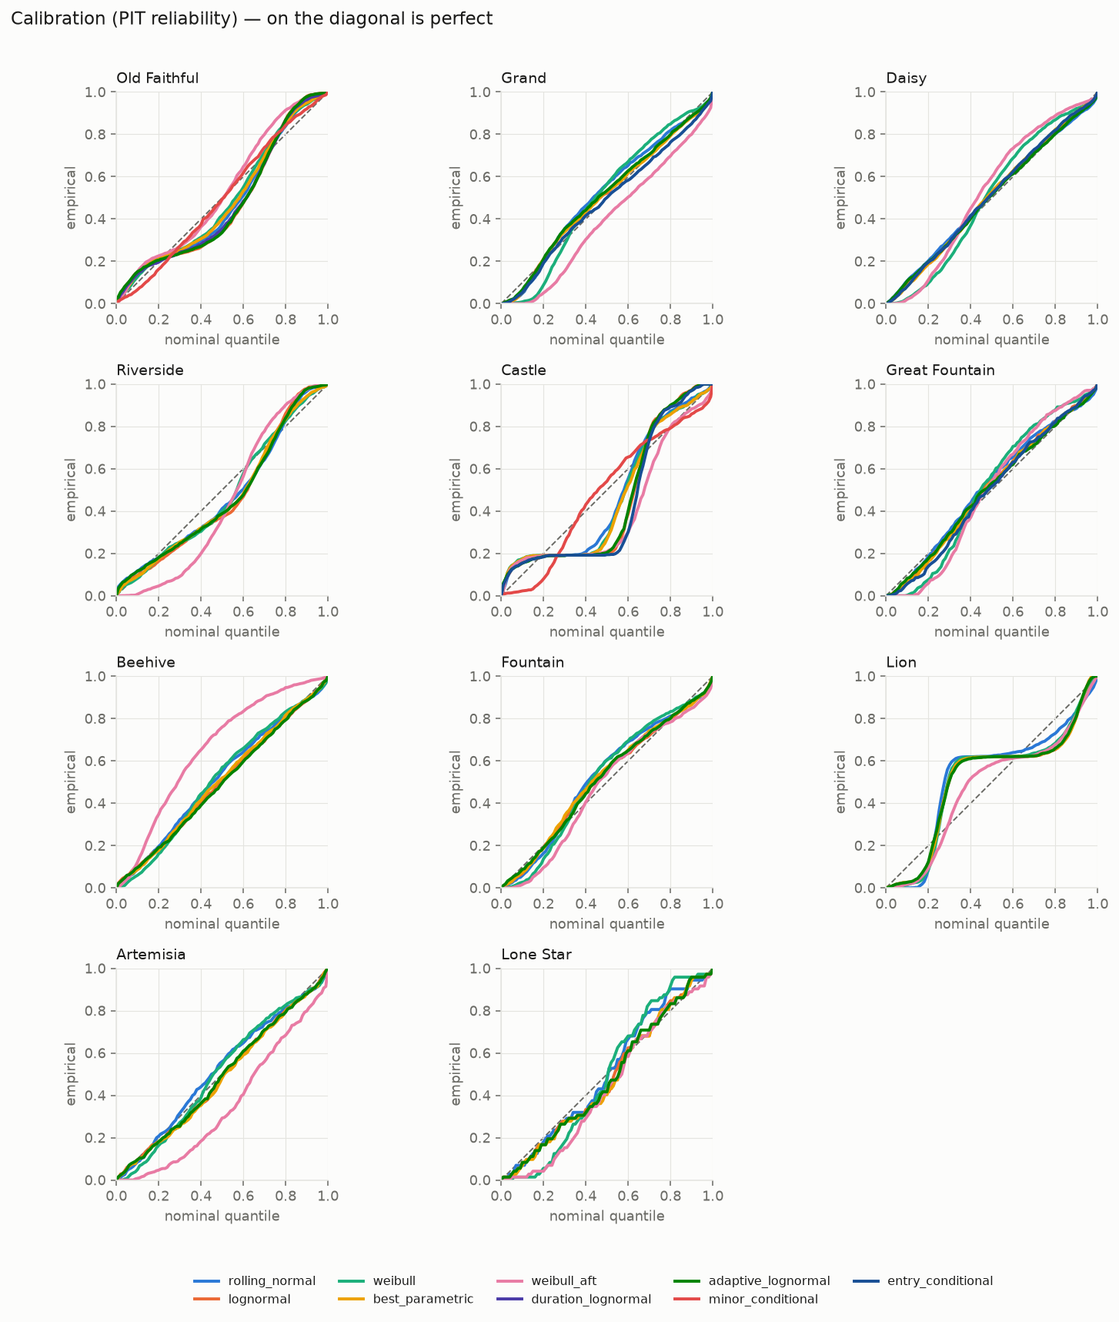
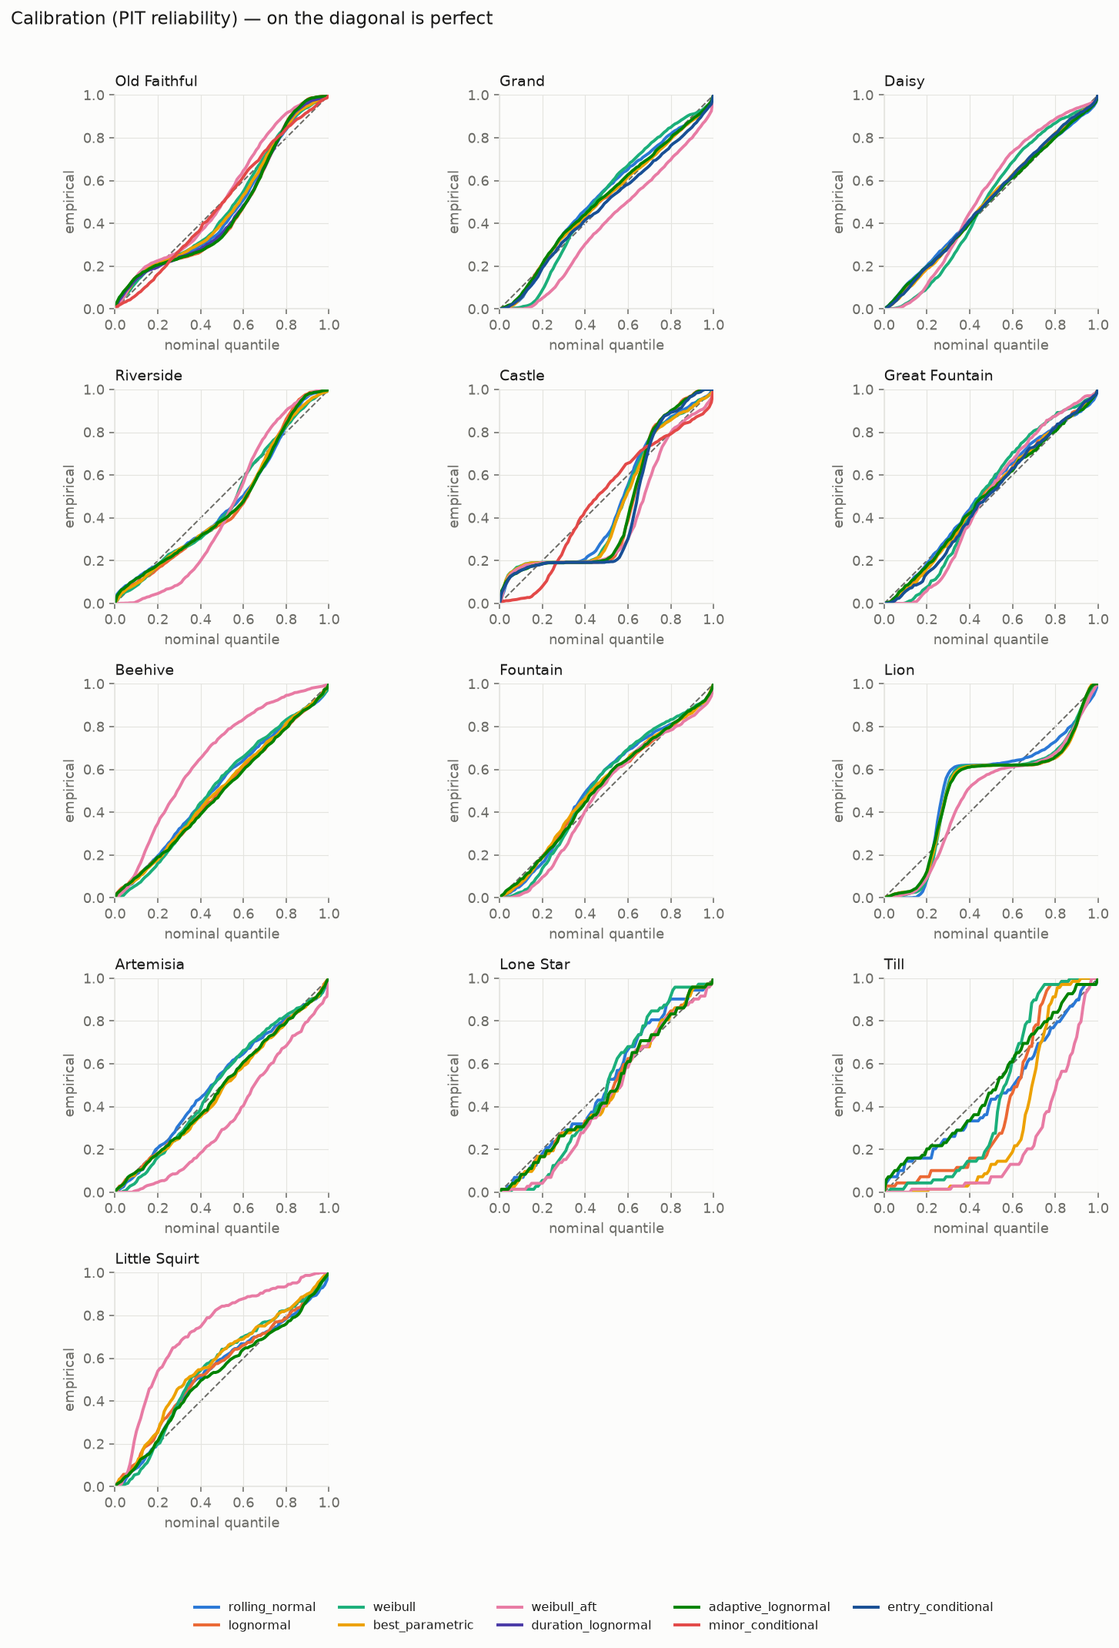
Till and Little Squirt: twelve and thirteen, one hidden, one overlooked
Till was the sweep's cautionary tale -- dismissed at "log-sd 2.16 on a
12-minute median" -- and re-running the sweep with the Lone Star lessons
applied dissolved that number entirely: 297 of its 477 recent entries are
afterplay minors in the first ~10% of the cycle, and the majors-only chain
under the p10 anchor is a 12-hour cycle at log-sd 0.072, the tightest
long-interval geyser in the project. Its reports arrive in real time
(median latency ~1 minute), and its measured phase decoherence -- +/-78
min at one cycle, +/-183 at eight, ceiling near sixteen -- gives it an
8-cycle phase window: the card is live whenever anyone has visited within
~4 days. PHASE_WINDOW_CYCLES is per-geyser now, and empirical. Till also
pins adaptive_lognormal: its cycle has drifted across the record and the
long-window parametric fits train on the old regime (best_parametric 63.5
CRPS vs 27.1, -57%).

Little Squirt needed nothing special -- everyone had simply overlooked a
~58-hour cycle at log-sd 0.237 with the cleanest observation record in
the set (13.8% of raw gaps rejected; 61% of entries from the Old Faithful
webcam; anchor inside its window 94% of the time). Standard pipeline,
default model, honest 90% coverage 76%.

Verified live: Till serving a phase-extrapolated prediction off a
26.6-hour anchor; Lone Star beside it in planning mode; thirteen cards.

diff --git a/src/geyser_ai/static/index.html b/src/geyser_ai/static/index.html
@@ -471,7 +471,7 @@ const HOURS = 12;            // future span of the shared axis
 const PAST_H = 1;            // shown before "now", so the marker sits inside
 const SPAN = PAST_H + HOURS; // total hours across the ribbon
 const REFRESH_MS = 5 * 60 * 1000;
-const TARGETS = new Set(["Old Faithful","Grand","Daisy","Riverside","Castle","Great Fountain","Beehive","Fountain","Lion","Artemisia","Lone Star"]);
+const TARGETS = new Set(["Old Faithful","Grand","Daisy","Riverside","Castle","Great Fountain","Beehive","Fountain","Lion","Artemisia","Lone Star","Till","Little Squirt"]);
 
 let lastData = null;
 

diff --git a/src/geyser_ai/ingest.py b/src/geyser_ai/ingest.py
@@ -60,7 +60,14 @@ SECOND_MODE_RATIO = 3.5
 # out 1270 min against a true 186-minute cycle). For these geysers the anchor
 # drops to the 10th percentile -- still safely above duplicate-entry noise,
 # which the 60-second dedupe pass and the 0.5x floor already handle.
-SPARSE_SINGLES_GEYSERS = frozenset({"Lone Star"})
+SPARSE_SINGLES_GEYSERS = frozenset({"Lone Star", "Till"})
+
+# Geysers whose minor-flagged entries are not cycle events: Lone Star's
+# minors PRECEDE the major by ~37 min (precursors); Till's are afterplay in
+# the first ~10% of the cycle. Chained as eruptions they shatter the true
+# cycle into phantom modes, so they leave the interval chain entirely --
+# the same reasoning that keeps Beehive's Indicator out of Beehive's chain.
+NON_CYCLE_MINOR_GEYSERS = frozenset({"Lone Star", "Till"})
 # Rows a regime needs before it gets its own validity baseline. Below this the
 # geyser almost certainly has no real minor mode, just a few stray flags.
 MIN_REGIME_ROWS = 200
@@ -303,20 +310,17 @@ def _build_intervals(con: duckdb.DuckDBPyConnection) -> None:
     print("Building `intervals` table ...")
     con.execute("DROP TABLE IF EXISTS intervals")
     sparse_singles = ", ".join(f"'{g}'" for g in sorted(SPARSE_SINGLES_GEYSERS))
+    non_cycle_minor = ", ".join(f"'{g}'" for g in sorted(NON_CYCLE_MINOR_GEYSERS))
     con.execute(
         f"""
         CREATE TABLE intervals AS
         WITH cycle_events AS (
-            -- Lone Star's minors are PRECURSORS, not cycle events: a minor
-            -- precedes the major of the same cycle by ~37 min (IQR 28-44,
-            -- n=107 over 3y). Chaining them as eruptions injects ~37 and
-            -- ~150-minute phantom intervals into a 186-minute cycle and put
-            -- its log-sd at 1.5; the major-only chain is log-sd 0.124. The
-            -- same reasoning already keeps Beehive's Indicator out of
-            -- Beehive's chain -- there it is a separate geyser name, here it
-            -- is a flag on the same name.
+            -- Some geysers' minors are not cycle events; see
+            -- NON_CYCLE_MINOR_GEYSERS. Chaining them as eruptions shatters
+            -- the true cycle into phantom modes (Lone Star read log-sd 1.5
+            -- against a majors-only 0.124).
             SELECT * FROM eruptions
-            WHERE NOT (geyser = 'Lone Star' AND minor)
+            WHERE NOT (geyser IN ({non_cycle_minor}) AND minor)
         ),
         deduped AS (
             -- collapse multiple observers logging the same eruption

diff --git a/src/geyser_ai/config.py b/src/geyser_ai/config.py
@@ -35,15 +35,20 @@ TARGET_GEYSERS: tuple[str, ...] = (
     "Lion",
     "Artemisia",
     "Lone Star",
+    "Till",
+    "Little Squirt",
 )
 
-# Geysers whose anchor loses phase information faster than reports arrive.
-# Lone Star: backcountry, median entry latency 2.7 h against a 186-minute
-# cycle whose phase decoheres in ~2-3 intervals (per-cycle jitter ~23 min,
-# compounding as a random walk). A prediction from a stale anchor is
-# "sometime in the next cycle" dressed up as a time, so the dashboard shows
-# a PLANNING card instead unless the anchor is genuinely fresh.
-PHASE_LIMITED_GEYSERS: frozenset[str] = frozenset({"Lone Star"})
-# Show a live prediction while the anchor is under this many median cycles
-# old; beyond it the 90% band exceeds what knowing nothing would give.
-PHASE_WINDOW_CYCLES = 2.5
+# Geysers whose anchor can outlive its phase information. A prediction from
+# a phase-dead anchor is "sometime in the next cycle" dressed up as a time,
+# so the dashboard shows a PLANNING card unless the anchor is fresher than
+# the geyser's measured phase window (in median cycles). The windows are
+# EMPIRICAL -- residuals against `anchor + k x cycle` -- not derived from a
+# random-walk model, which understates decoherence:
+#   Lone Star  2.5  (90% band +/-45 min at k=1, gone by k=3; jitter 12%/cycle)
+#   Till       8.0  (+/-78 at k=1, +/-183 at k=8, ceiling ~k=16; jitter 7%/cycle)
+PHASE_WINDOW_CYCLES: dict[str, float] = {
+    "Lone Star": 2.5,
+    "Till": 8.0,
+}
+PHASE_LIMITED_GEYSERS: frozenset[str] = frozenset(PHASE_WINDOW_CYCLES)

diff --git a/tests/test_scoreboard.py b/tests/test_scoreboard.py
@@ -530,15 +530,20 @@ class TestScoreboardNeverBreaksPredictions:
 class TestOurPredictionsAreLogged:
     def test_a_full_run_records_every_geyser_once(self):
         import geyser_ai.service as svc
-        from geyser_ai.config import PHASE_LIMITED_GEYSERS
 
-        svc.get_predictions(do_sync=False, density_points=16)
+        payload = svc.get_predictions(do_sync=False, density_points=16)
         led = ledger_mod.get_ledger()
         ours = [p for p in led.open.values() if p.source == "geyser_ai"]
-        # Phase-limited geysers in planning mode make no clock-time claim, so
-        # they are deliberately absent -- the fixture's Lone Star anchor is 20h
-        # old, well past its phase window.
-        expected = set(svc.TARGET_GEYSERS) - PHASE_LIMITED_GEYSERS
+        # A planning-mode card makes no clock-time claim, so it is deliberately
+        # absent from the ledger. The fixture pins both poles: Lone Star's
+        # anchor is 20 h old (past its 2.5-cycle window -> planning), Till's is
+        # 5 cycles old (inside its 8-cycle window -> live and logged).
+        expected = {
+            p["geyser"]
+            for p in payload["predictions"]
+            if "error" not in p and p.get("display_mode") != "planning"
+        }
+        assert "Till" in expected and "Lone Star" not in expected
         assert {p.geyser for p in ours} == expected
         assert all(p.window_open_epoch and p.inner_open_epoch for p in ours)
 

diff --git a/tests/conftest.py b/tests/conftest.py
@@ -67,6 +67,7 @@ GEYSER_SPECS = {
     "Beehive": (1100.0, 0.22),
     "Fountain": (305.0, 0.21),
     "Artemisia": (1320.0, 0.21),
+    "Little Squirt": (3500.0, 0.24),
 }
 
 # Anchored just before "now" so the recent-eruptions endpoint and data-age
@@ -200,6 +201,22 @@ def _build() -> None:
     minors = (maj_kept[has_minor] - _rng.normal(37, 6, has_minor.sum()) * 60).astype(np.int64)
     rows += _rows("Lone Star", minors, next_id, **{"min": "1"})
     next_id += len(minors) + 10
+
+    # Till: like Lone Star but with AFTERPLAY minors (~1 h after the major)
+    # instead of precursors, and a 12-hour cycle. Last major 5 cycles back:
+    # inside Till's 8-cycle phase window, so its default serving state is
+    # LIVE -- the opposite pole from the Lone Star fixture.
+    n = 500
+    ivs = _rng.lognormal(np.log(729.0), 0.08, n) * 60.0
+    maj = END_EPOCH - 5 * 729 * 60 - np.cumsum(ivs)[::-1]
+    keep = _rng.random(n) > 0.5
+    maj_kept = maj[keep].astype(np.int64)
+    rows += _rows("Till", maj_kept, next_id, maj="1")
+    next_id += n + 10
+    has_after = _rng.random(len(maj_kept)) < 0.5
+    afters = (maj_kept[has_after] + _rng.normal(60, 15, has_after.sum()) * 60).astype(np.int64)
+    rows += _rows("Till", afters, next_id, **{"min": "1"})
+    next_id += len(afters) + 10
 
     con.executemany(
         f"INSERT INTO eruptions_raw VALUES ({', '.join(['?'] * len(RAW_COLUMNS))})", rows

diff --git a/tests/test_planning.py b/tests/test_planning.py
@@ -54,6 +54,18 @@ class TestPlanningMode:
         )
         assert r["phase_window_min"] > 0
 
+    def test_till_inside_its_window_serves_live(self):
+        """Till's fixture anchor is 5 cycles old -- inside its 8-cycle window."""
+        r = predict_geyser("Till")
+        assert r is not None
+        assert r["display_mode"] == "live"
+        assert r["model"] == "adaptive_lognormal"
+
+    def test_till_intervals_exclude_afterplay_minors(self):
+        h = load_intervals("Till")
+        med = float(h["interval_min"].median())
+        assert 600 < med < 850, f"median {med:.0f}: afterplay minors leaked into the chain"
+
     def test_fresh_anchor_serves_live(self, monkeypatch):
         """The same gate must open when the anchor carries phase."""
         import geyser_ai.predict as predict_mod
@@ -61,6 +73,9 @@ class TestPlanningMode:
         # Plume's fixture anchor is minutes old; borrowing it isolates the
         # gate logic from the fixture's deliberately-stale Lone Star anchor.
         monkeypatch.setattr(predict_mod, "PHASE_LIMITED_GEYSERS", frozenset({"Plume", "Lone Star"}))
+        monkeypatch.setattr(
+            predict_mod, "PHASE_WINDOW_CYCLES", {**predict_mod.PHASE_WINDOW_CYCLES, "Plume": 2.5}
+        )
         r = predict_geyser("Plume")
         assert r["display_mode"] == "live"
 

diff --git a/src/geyser_ai/models.py b/src/geyser_ai/models.py
@@ -693,6 +693,12 @@ BEST_MODEL_BY_GEYSER: dict[str, str] = {
     "Old Faithful": "minor_conditional",
     "Castle": "minor_conditional",
     "Lion": "series_conditional",
+    # Till's cycle has drifted across its recorded history (613 min all-time
+    # vs ~729 recently), and the long-window parametric fits train on the old
+    # regime: best_parametric scores 63.5 CRPS against adaptive_lognormal's
+    # 27.1 (-57%, decisive). rolling_normal ties on CRPS (26.9) but loses on
+    # MAE (36.6 vs 33.9).
+    "Till": "adaptive_lognormal",
 }
 
 

diff --git a/src/geyser_ai/predict.py b/src/geyser_ai/predict.py
@@ -277,7 +277,7 @@ def predict_geyser(
     # instead of a number that pretends to more than the physics allows; the
     # dashboard renders a planning card, and the ledger logs nothing.
     if geyser in PHASE_LIMITED_GEYSERS:
-        phase_window = PHASE_WINDOW_CYCLES * naive_med
+        phase_window = PHASE_WINDOW_CYCLES[geyser] * naive_med
         result["phase_window_min"] = round(phase_window, 1)
         result["display_mode"] = "planning" if age_min > phase_window else "live"
 

diff --git a/src/geyser_ai/mcp_server.py b/src/geyser_ai/mcp_server.py
@@ -45,6 +45,8 @@ GeyserName = Literal[
     "Lion",
     "Artemisia",
     "Lone Star",
+    "Till",
+    "Little Squirt",
 ]
 
 

diff --git a/reports/calibration_report.md b/reports/calibration_report.md
@@ -87,6 +87,18 @@ At every evaluated eruption each model sees **only** intervals strictly earlier 
 | Lone Star | rolling_normal | 72 | 15.3 | 20.0 | 56.9% · | 91.7% |
 | Lone Star | weibull_aft | 72 | 15.9 | 20.5 | 66.7% ⚠ | 90.3% |
 | Lone Star | weibull | 72 | 16.1 | 19.8 | 73.6% ⚠ | 97.2% · |
+| Till | **rolling_normal** | 69 | 26.9 | 36.6 | 49.3% | 89.9% |
+| Till | adaptive_lognormal | 69 | 27.0 | 33.9 | 58.0% · | 87.0% |
+| Till | lognormal | 69 | 49.0 | 65.8 | 81.2% ⚠ | 97.1% · |
+| Till | weibull | 69 | 51.1 | 55.6 | 91.3% ⚠ | 98.6% · |
+| Till | best_parametric | 69 | 63.5 | 91.5 | 73.9% ⚠ | 100.0% · |
+| Till | weibull_aft | 69 | 77.2 | 116.5 | 34.8% ⚠ | 94.2% |
+| Little Squirt | **rolling_normal** | 313 | 536.2 | 763.1 | 44.1% · | 87.2% |
+| Little Squirt | adaptive_lognormal | 313 | 543.4 | 777.2 | 43.5% · | 88.2% |
+| Little Squirt | lognormal | 313 | 550.0 | 790.0 | 43.5% · | 88.2% |
+| Little Squirt | best_parametric | 313 | 555.7 | 805.2 | 40.6% · | 90.1% |
+| Little Squirt | weibull | 313 | 561.9 | 821.4 | 48.2% | 91.1% |
+| Little Squirt | weibull_aft | 313 | 779.2 | 1,182.2 | 31.6% ⚠ | 94.6% |
 
 **Bold** = best CRPS for that geyser.
 
@@ -105,13 +117,15 @@ At every evaluated eruption each model sees **only** intervals strictly earlier 
 | Lion | series_conditional | 119.4 | 149.4 | 20.0% |
 | Artemisia | best_parametric | 174.9 | 180.8 | 3.3% |
 | Lone Star | adaptive_lognormal | 14.9 | 15.3 | 2.7% |
+| Till | rolling_normal | 26.9 | 26.9 | 0.0% |
+| Little Squirt | rolling_normal | 536.2 | 536.2 | 0.0% |
 
 ## Known gaps
 
 - **Castle** — the best model (`minor_conditional`) is far too wide: its nominal 50% interval actually covers 61%. The predicted distribution is the wrong *shape*, not just the wrong width.
 - **Lion** — the best model (`series_conditional`) is far too wide: its nominal 50% interval actually covers 61%. The predicted distribution is the wrong *shape*, not just the wrong width.
 
-- **The covariate model did not earn its complexity.** `weibull_aft` (lifelines Weibull AFT with previous-interval, clock-time, seasonal and entry-flag covariates) ranks in the bottom half on 10 of 11 geysers: Old Faithful 5/8, Grand 7/7, Daisy 7/7, Riverside 6/6, Castle 5/8, Great Fountain 7/7, Beehive 6/6, Fountain 6/6, Lion 2/7, Artemisia 6/6, Lone Star 5/6. The simple rolling lognormal/Weibull fits beat it nearly everywhere, and the dashboard-style baseline is competitive. Reported as-is.
+- **The covariate model did not earn its complexity.** `weibull_aft` (lifelines Weibull AFT with previous-interval, clock-time, seasonal and entry-flag covariates) ranks in the bottom half on 12 of 13 geysers: Old Faithful 5/8, Grand 7/7, Daisy 7/7, Riverside 6/6, Castle 5/8, Great Fountain 7/7, Beehive 6/6, Fountain 6/6, Lion 2/7, Artemisia 6/6, Lone Star 5/6, Till 6/6, Little Squirt 6/6. The simple rolling lognormal/Weibull fits beat it nearly everywhere, and the dashboard-style baseline is competitive. Reported as-is.
 
 
 ### Honest coverage: scoring the intervals the filter throws away
@@ -132,6 +146,8 @@ Everything above is measured only on intervals that passed the validity filter, 
 | Lion | 1,500 | 11.1% | 30.5% | 85.5% | 93.8% |
 | Artemisia | 548 | 29.6% | 36.9% | 60.8% | 86.3% |
 | Lone Star | 228 | 68.4% | 18.0% | 29.4% | 93.1% |
+| Till | 232 | 70.3% | 24.1% | 28.9% | 97.1% |
+| Little Squirt | 363 | 13.8% | 37.5% | 76.0% | 88.2% |
 
 The drop between the last two columns is the real-world penalty. Treat the headline table as an upper bound on field reliability, and see the renewal/missed-eruption handling in `predict` (README) for how the CLI compensates at prediction time.
 
@@ -146,13 +162,13 @@ Each decision time is scored **twice, identically**, with neighbour conditioning
 
 | Geyser | Regime | n | CRPS off | CRPS on | Δ | 90% off | 90% on |
 |---|---|---:|---:|---:|---:|---:|---:|
-| Grand | **overall** | 21,420 | 44.4 | 44.4 | +0.1% | 90% | 90% |
-| Grand | base | 18,043 | 43.7 | 43.7 | +0.0% | 90% | 90% |
-| Grand | precursor_shifted | 1,685 | 53.8 | 54.5 | +1.3% | 87% | 86% |
-| Grand | turban_gated | 1,692 | 42.4 | 42.5 | +0.3% | 92% | 92% |
-| Beehive | **overall** | 30,689 | 118.3 | 115.0 | -2.8% | 86% | 89% |
-| Beehive | base | 28,636 | 116.2 | 116.2 | +0.0% | 90% | 90% |
-| Beehive | indicator_active | 2,053 | 147.7 | 97.8 | -33.8% | 30% | 87% |
+| Grand | **overall** | 21,416 | 44.3 | 44.4 | +0.2% | 90% | 90% |
+| Grand | base | 18,030 | 43.6 | 43.6 | +0.0% | 90% | 90% |
+| Grand | precursor_shifted | 1,684 | 53.7 | 54.4 | +1.3% | 88% | 86% |
+| Grand | turban_gated | 1,702 | 42.4 | 42.6 | +0.3% | 92% | 92% |
+| Beehive | **overall** | 30,691 | 118.3 | 115.0 | -2.7% | 86% | 89% |
+| Beehive | base | 28,634 | 116.2 | 116.1 | -0.0% | 90% | 90% |
+| Beehive | indicator_active | 2,057 | 147.6 | 99.6 | -32.5% | 30% | 87% |
 
 **Beehive's Indicator works.** In the minutes it is running, CRPS falls by about a third and nominal 90% coverage goes from badly overconfident to roughly honest. The no-Indicator regime is untouched, which is the point — the conditioning adds information only when there is information to add. Residual error in that regime is dominated by cycles where the Beehive eruption itself was never logged (~6% of Indicator entries), not by the model.
 
@@ -170,7 +186,7 @@ Each decision time is scored **twice, identically**, with neighbour conditioning
 
 ## Data-quality notes
 
-- Of 1,339,680 consecutive-eruption gaps, 1,076,585 (80.4%) pass the per-geyser plausibility filter (0.35x-3x that geyser's median). The rest are overwhelmingly observation gaps — nobody is watching Riverside at 3am in February — not real eruptions.
+- Of 1,338,654 consecutive-eruption gaps, 1,075,432 (80.3%) pass the per-geyser plausibility filter (0.35x-3x that geyser's median). The rest are overwhelmingly observation gaps — nobody is watching Riverside at 3am in February — not real eruptions.
 
 - The ceiling is **1.75x** the median rather than the more obvious 3x because the interval histograms show clear **harmonics**: Riverside clusters at ~390, ~780 and ~1150 minutes, Great Fountain at ~686 and ~1400. Those secondary peaks sit at exactly 2x and 3x the median and are one and two missed eruptions. A 3x ceiling admits them, and models trained on the contaminated series predict distributions far wider than reality — it was worth several times more CRPS than any modeling choice in this report.
 
@@ -186,8 +202,10 @@ Observation-entry mix since 2015 (% of valid intervals):
 | Grand | 45.8% | 15.5% | 1.2% | 5.2% |
 | Great Fountain | 0.0% | 62.5% | 0.8% | 2.6% |
 | Lion | 69.9% | 4.4% | 0.2% | 9.4% |
+| Little Squirt | 52.8% | 17.3% | 0.4% | 78.1% |
 | Lone Star | 0.0% | 0.0% | 15.9% | 2.6% |
 | Old Faithful | 91.1% | 3.8% | 0.3% | 3.4% |
 | Riverside | 62.0% | 1.1% | 1.2% | 21.9% |
+| Till | 0.0% | 59.3% | 0.9% | 12.8% |
 
 Data courtesy of [GeyserTimes.org](https://geysertimes.org) and its community of volunteer observers.

diff --git a/docs/findings/model-results.md b/docs/findings/model-results.md
@@ -23,10 +23,14 @@ Regenerate with `uv run geyser-ai backtest`; the full table lives in
 | Lion | `series_conditional` | 119.4 | 187.6 | 61% | 89% |
 | Artemisia | `best_parametric` | 174.9 | 240.3 | 53% | 86% |
 | Lone Star* | `best_parametric` | 14.9 | 20.1 | 60% | 94% |
+| Till* | `adaptive_lognormal` | 27.0 | 33.9 | 58% | 87% |
+| Little Squirt | `best_parametric` | 555.7 | 805.2 | 41% | 90% |
 
-\* Lone Star serves a live prediction only when its anchor is fresh enough to
-carry phase (~7% of summer-daytime moments); otherwise a planning card that
-makes no clock-time claim. Its numbers are for exactly that live window.
+\* Phase-limited: a live prediction appears only while the anchor is fresher
+than the geyser's measured phase window (Lone Star 2.5 cycles, ~7% of
+summer-daytime moments; Till 8 cycles — its reports arrive in real time, so
+it is live whenever anyone has visited within ~4 days); otherwise a planning
+card that makes no clock-time claim. Their numbers are for the live window.
 
 ## The single most important result
 
@@ -178,6 +182,34 @@ Artemisia takes no `BEST_MODEL_BY_GEYSER` entry — nothing to pin. Calibration
 
 Neither the NPS nor Geysers.net predicts it. One eruption a day means the
 scoreboard will accumulate slowly; patience before judging its live numbers.
+
+## Till and Little Squirt, twelve and thirteen (added 2026-08-09)
+
+Both were flushed out by re-running the candidate sweep with the Lone Star
+lessons applied — precursor-flag exclusion and the p10 sparse-singles anchor
+— which is exactly how Till's earlier dismissal ("log-sd 2.16 at a 12-minute
+median") dissolved: 297 of its 477 recent entries are afterplay minors in
+the first ~10% of the cycle, and once they leave the chain, Till is a
+**12-hour cycle at log-sd 0.072** — the tightest long-interval geyser in the
+project. Unlike Lone Star its reports arrive in real time (median latency
+~1 minute, 78% within 30). Its phase carries much further too — measured
+decoherence: ±78 min at one cycle, ±183 at eight, no-information ceiling
+(±346) near sixteen — so its phase window is **8 cycles (~4 days)** and the
+card is live whenever anyone has visited recently. One more Till lesson:
+its cycle has drifted across the record (613 min all-time vs ~729 now), and
+the long-window parametric fits train on the old regime — `best_parametric`
+scored 63.5 CRPS against `adaptive_lognormal`'s 27.1, a decisive −57%, so
+Till is pinned. Honest coverage carries the usual sparse-geyser caveat:
+70.3% of raw gaps are rejected, honest 90% = 28.9%.
+
+**Little Squirt** needed no special treatment at all — everyone had simply
+overlooked it: a ~58-hour cycle (76 h all-time; it has lengthened) at
+log-sd 0.237, **91% of raw gaps are true single intervals** (13.8%
+rejected — the cleanest observation record in the set), 61% of entries from
+the Old Faithful webcam, and an anchor inside its window 94% of the time.
+`rolling_normal` beats the default by 3.5% — inside the noise rule — so it
+serves `best_parametric`. Honest 90% coverage 76.0%, better than most of
+the frontcountry set. Slow accumulation: ~12 scored eruptions a month.
 
 ## What production serves, and why
 

diff --git a/README.md b/README.md
@@ -120,10 +120,13 @@ is better):
 | Lion | `series_conditional` | 119.4 | 187.6 | 61% | 89% |
 | Artemisia | `best_parametric` | 174.9 | 240.3 | 53% | 86% |
 | Lone Star* | `best_parametric` | 14.9 | 20.1 | 60% | 94% |
+| Till* | `adaptive_lognormal` | 27.0 | 33.9 | 58% | 87% |
+| Little Squirt | `best_parametric` | 555.7 | 805.2 | 41% | 90% |
 
-\* Backcountry: a live prediction appears only when a report fresh enough to
-carry phase exists (~7% of summer-daytime moments); otherwise the dashboard
-shows a planning card with interval statistics and the trailside-logbook rule.
+\* Phase-limited: a live prediction appears only while the last report is
+fresher than the geyser's measured phase window (Lone Star ~7.7 h, Till ~4
+days); otherwise the dashboard shows a planning card with interval statistics
+and the decision rule a visitor can actually use.
 
 **Each geyser is served by the model in that table**, not by a single global
 default — see `models.BEST_MODEL_BY_GEYSER`. That distinction is only load-bearing
@@ -347,7 +350,7 @@ single-page dashboard. Interactive API docs are at `/docs`.
 | Endpoint | What it returns |
 |---|---|
 | `GET /` | The dashboard |
-| `GET /api/predictions?hours=12&points=96` | All eleven geysers, sorted soonest first: median, 50%/90% windows, expected missed eruptions, data age, and a probability-density curve for charting |
+| `GET /api/predictions?hours=12&points=96` | All thirteen geysers, sorted soonest first: median, 50%/90% windows, expected missed eruptions, data age, and a probability-density curve for charting |
 | `GET /api/predictions/{geyser}?points=240` | One geyser, denser curve |
 | `GET /api/eruptions/recent?hours=24` | Recently logged eruptions (`geyser=` and `targets_only=` filters) |
 | `GET /api/stats?geyser=Grand` | Interval statistics per geyser |
